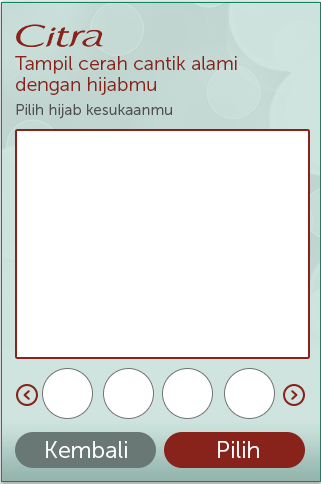
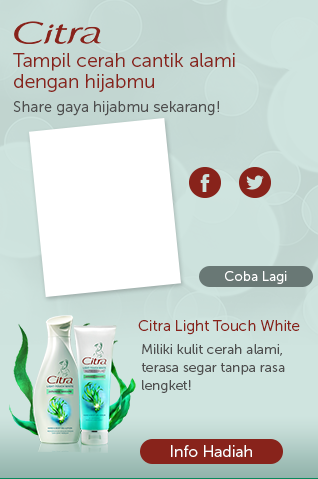
backup

diff --git a/mobile/js/main.js b/mobile/js/main.js
@@ -194,7 +194,7 @@ var ad = function(_m) {
 
     var sliderHead = '<div id="chooser"><div class="slider js_slider"> <div class="frame js_frame"> <ul class="slides js_slides"> <li class="js_slide selected"><img class="image1" src="' + _m.path + 'img/1-d.png"></li><li class="js_slide"><img class="image2" src="' + _m.path + 'img/2-d.png"></li><li class="js_slide"><img class="image3" src="' + _m.path + 'img/3-d.png"></li><li class="js_slide"><img class="image4" src="' + _m.path + 'img/4-d.png"></li><li class="js_slide"><img class="image5" src="' + _m.path + 'img/5-d.png"></li><li class="js_slide"><img class="image6" src="' + _m.path + 'img/6-d.png"></li></ul> </div><img class="js_prev prev" src="' + _m.path + 'img/slider_btn.png"> <img class="js_next next" src="' + _m.path + 'img/slider_btn.png"> </div></div><div id="buttons"><div id="kembali">Kembali</div><div id="pilih">Pilih</div></div>';
 
-    _m.contentTag.innerHTML = '<div id="adc"><div id="first"><label id="btnSelfie" for="file-input">Selfie<input type="file" accept="image/*;capture=camera" id="file-input"></label></div><div id="second"><img id="instruction" src="' + _m.path + 'img/gif.gif"><div class="mask"></div><div id="controls"><img class="rotate" src="' + _m.path + 'img/rotate.png"><img class="zoomin" src="' + _m.path + 'img/zoom_plus.png"><img class="zoomout" src="' + _m.path + 'img/zoom_minus.png"></div><div id="containerwork"><div id="workspace"></div></div>' + sliderHead + '</div><div id="last"><img src="' + _m.path + 'img/last.png"></div></div><div id="overlay"></div>';
+    _m.contentTag.innerHTML = '<div id="adc"><div id="first"><label id="btnSelfie" for="file-input">Selfie<input type="file" accept="image/*;capture=camera" id="file-input"></label></div><div id="second"><img id="instruction" src="' + _m.path + 'img/gif.gif"><div class="mask"></div><div id="controls"><img class="rotate" src="' + _m.path + 'img/rotate.png"><img class="zoomin" src="' + _m.path + 'img/zoom_plus.png"><img class="zoomout" src="' + _m.path + 'img/zoom_minus.png"></div><div id="containerwork"><div id="workspace"></div></div>' + sliderHead + '</div><div id="last"><img src="' + _m.path + 'img/last.png"><img id="fb-share" src="'+_m.path+'img/fb-icn.png"><img id="tw-share" src="'+_m.path+'img/tw-icn.png"><div id="coba">Coba Lagi</div><div id="info">Info Hadiah</div></div></div><div id="overlay"></div>';
 
 
     var firstPage = _m.contentTag.querySelector('#first');
@@ -235,13 +235,14 @@ var ad = function(_m) {
     kembali.addEventListener('click', function() {
         GotoPage(1);
     });
-    var lastimg;
+    var lastimg = new Image();
+    lastimg.id = "lastimg";
     pilih.addEventListener('click', function() {
         activ.src = activ.src.replace('-d', '-e');
 
         html2canvas(workspace, {
             onrendered: function(canvas) {
-                lastimg = canvas.toDataURL("image/png");
+                lastimg.src = canvas.toDataURL("image/png");
                 GotoPage(3);
             }
         })
@@ -385,6 +386,9 @@ var ad = function(_m) {
                 firstPage.style.display = 'none';
                 secondPage.style.display = 'none';
                 lastPage.style.display = 'block';
+                if (lastimg) {
+                    lastPage.appendChild(lastimg);
+                }
                 break;
         }
     }

diff --git a/mobile/css/style.css b/mobile/css/style.css
@@ -51,7 +51,7 @@ body {
     position: absolute;
     background: url(../img/overlay.png);
     z-index: 10;
-    opacity: 0;
+    opacity: 0.2;
     pointer-events: none;
 }
 
@@ -103,6 +103,51 @@ body {
     right: 15px;
     border-radius: 25px;
     font-size: 25px;
+    cursor: pointer;
+}
+
+#lastimg {
+    position: absolute;
+    left: -33px;
+    top: 101px;
+    transform: scale(.8) rotateZ(-7deg);
+    z-index: -1;
+}
+
+#fb-share {
+    position: absolute;
+    right: 99px;
+    top: 166px;
+}
+
+#tw-share {
+    position: absolute;
+    right: 49px;
+    top: 166px;
+}
+
+#coba {
+    background: #697875;
+    position: absolute;
+    padding: 3px 28px;
+    color: white;
+    bottom: 195px;
+    font-weight: normal;
+    border-radius: 25px;
+    font-size: 13px;
+    cursor: pointer;
+    right: 7px;
+}
+
+#info {
+    background: #88231b;
+    position: absolute;
+    padding: 3px 35px;
+    color: white;
+    bottom: 21px;
+    right: 38px;
+    border-radius: 25px;
+    font-size: 15px;
     cursor: pointer;
 }
 
